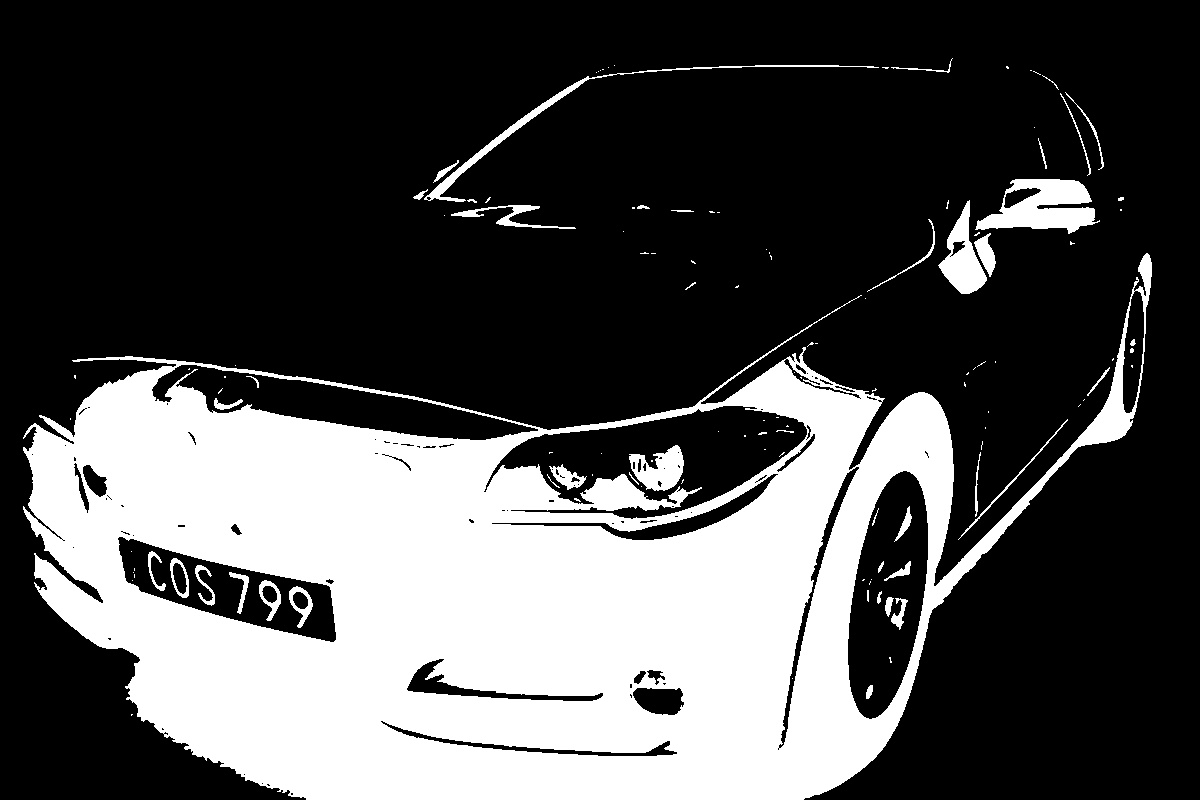
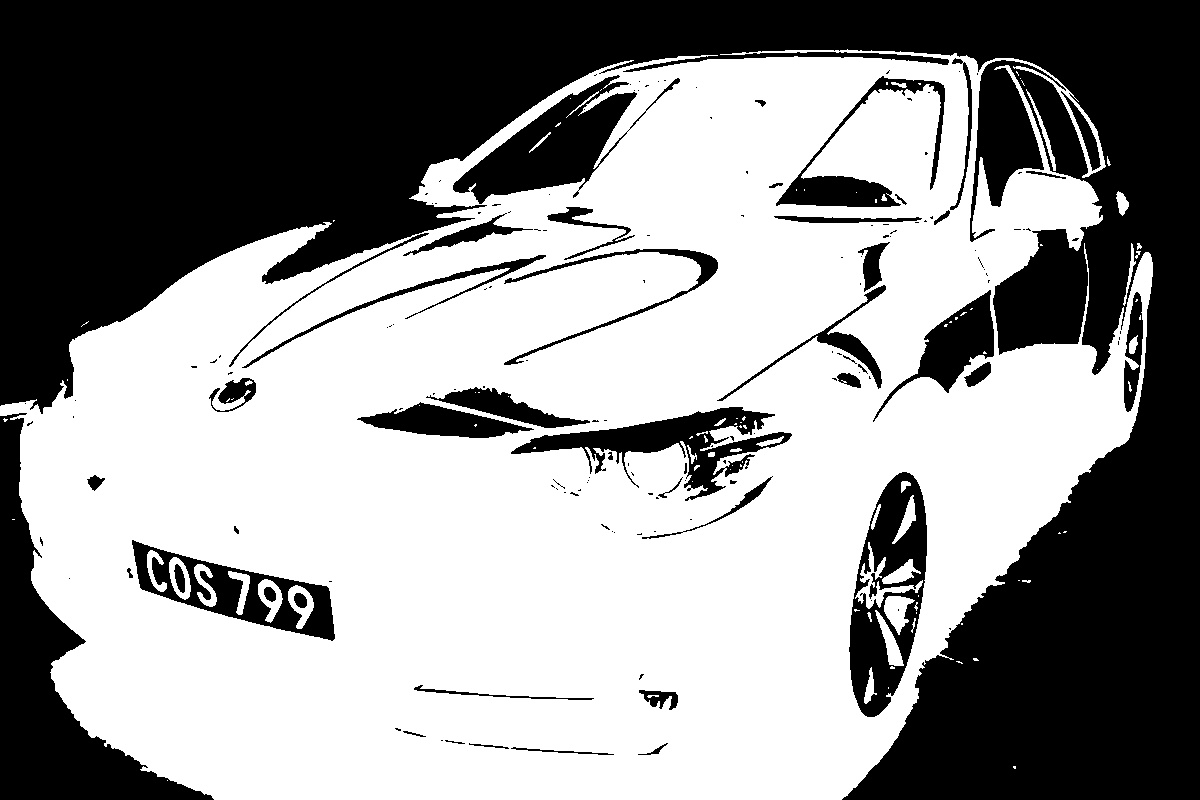
LPR created -> try to move code

diff --git a/src/main/java/com/pages/Page7/LPR.java b/src/main/java/com/pages/Page7/LPR.java
@@ -34,10 +34,11 @@ public class LPR {
   private Scalar green = new Scalar(0, 255, 0, 255);
   private Scalar red = new Scalar(0, 0, 255, 255);
   private Scalar randomColor = new Scalar(Math.random() * 255, Math.random() * 255, Math.random() * 255, 0);
+  private Mat originalImg;
   private Mat originalContoursImg;
   private Mat filteredContoursImg;
 
-  static BufferedImage Mat2BufferedImage(Mat matrix) throws Exception {
+  private BufferedImage Mat2BufferedImage(Mat matrix) throws Exception {
     MatOfByte mob = new MatOfByte();
     Imgcodecs.imencode(".jpg", matrix, mob);
     byte ba[] = mob.toArray();
@@ -48,54 +49,56 @@ public class LPR {
   public void recognize(String path) {
     System.loadLibrary(Core.NATIVE_LIBRARY_NAME);
     Mat original = Imgcodecs.imread(path);
+    originalImg = new Mat();
     originalContoursImg = new Mat();
     filteredContoursImg = new Mat();
-    Mat filtered = filterImage(original);
+    int thresh = 150;
+    Mat filtered = filterImage(original, thresh);
+    original.copyTo(originalImg);
     original.copyTo(originalContoursImg);
     filtered.copyTo(filteredContoursImg);
 
     contours(filtered);
 
 
-    if(!filteredContoursImg.empty()){
-      Imgcodecs.imwrite(imgPath+"aaa\\filteredContoursImage.jpg", filteredContoursImg);
-      System.out.println("111");
+    if (!filteredContoursImg.empty()) {
+      Imgcodecs.imwrite(imgPath + "aaa\\filteredContoursImage.jpg", filteredContoursImg);
     }
-    if(!originalContoursImg.empty()){
-      Imgcodecs.imwrite(imgPath+"aaa\\contoursImage.jpg", originalContoursImg);
-      System.out.println("222");
+    if (!originalContoursImg.empty()) {
+      Imgcodecs.imwrite(imgPath + "aaa\\contoursImage.jpg", originalContoursImg);
     }
   }
 
-  private void contours(Mat img) {
-    Mat temp = new Mat();
-
-    img.copyTo(temp);
+  private void contours(Mat filtered) {
+//    Mat temp = new Mat();
+//    filtered.copyTo(temp);
     List<MatOfPoint> contours = new ArrayList<>();
-    Imgproc.findContours(img, contours, new Mat(), RETR_TREE, Imgproc.CHAIN_APPROX_SIMPLE);
+    Imgproc.findContours(filtered, contours, new Mat(), RETR_TREE, Imgproc.CHAIN_APPROX_SIMPLE);
     int i = 0;
+    Mat contourImage = new Mat();
     for (MatOfPoint contour : contours) {
       MatOfPoint2f pointsArea = new MatOfPoint2f(contour.toArray());
       RotatedRect rotatedRectangle = Imgproc.minAreaRect(pointsArea);
-      if ((rotatedRectangle.size.area() > 1500) && (rotatedRectangle.size.area() < 10000)) {
+      if ((rotatedRectangle.size.area() > 2000) && (rotatedRectangle.size.area() < 15000)) {
         Point rotatedRectPoints[] = new Point[4];
         rotatedRectangle.points(rotatedRectPoints);
         Rect rect = Imgproc.boundingRect(new MatOfPoint(rotatedRectPoints));
         if ((rect.width > rect.height) && (rect.width < 6 * rect.height)) {
-          System.out.println(i);
           Imgproc.rectangle(originalContoursImg, rect.tl(), rect.br(), red, 3);
           Imgproc.rectangle(filteredContoursImg, rect.tl(), rect.br(), red, 3);
-//          licensePlate = new Mat(sourceORG, rect);
-//          licensePlate = filterPlateImage(licensePlate);
+          contourImage = new Mat(filtered, rect);
+//          contourImage = new Mat(originalImg, rect);
+          Imgcodecs.imwrite(imgPath+"aaa\\"+i+".jpg", contourImage);
+          //toDo rotate and transform, get angle from rect, work with original or filtered???
         }
       }
       i++;
     }
   }
 
+
   // Filter main image, method translated from Python->C++
-  private Mat filterImage(Mat img) {
-    int thresh = 80;
+  private Mat filterImage(Mat img, int thresh) {
     int blurValue = 5;
     Mat temp = new Mat();
     img.copyTo(temp);
